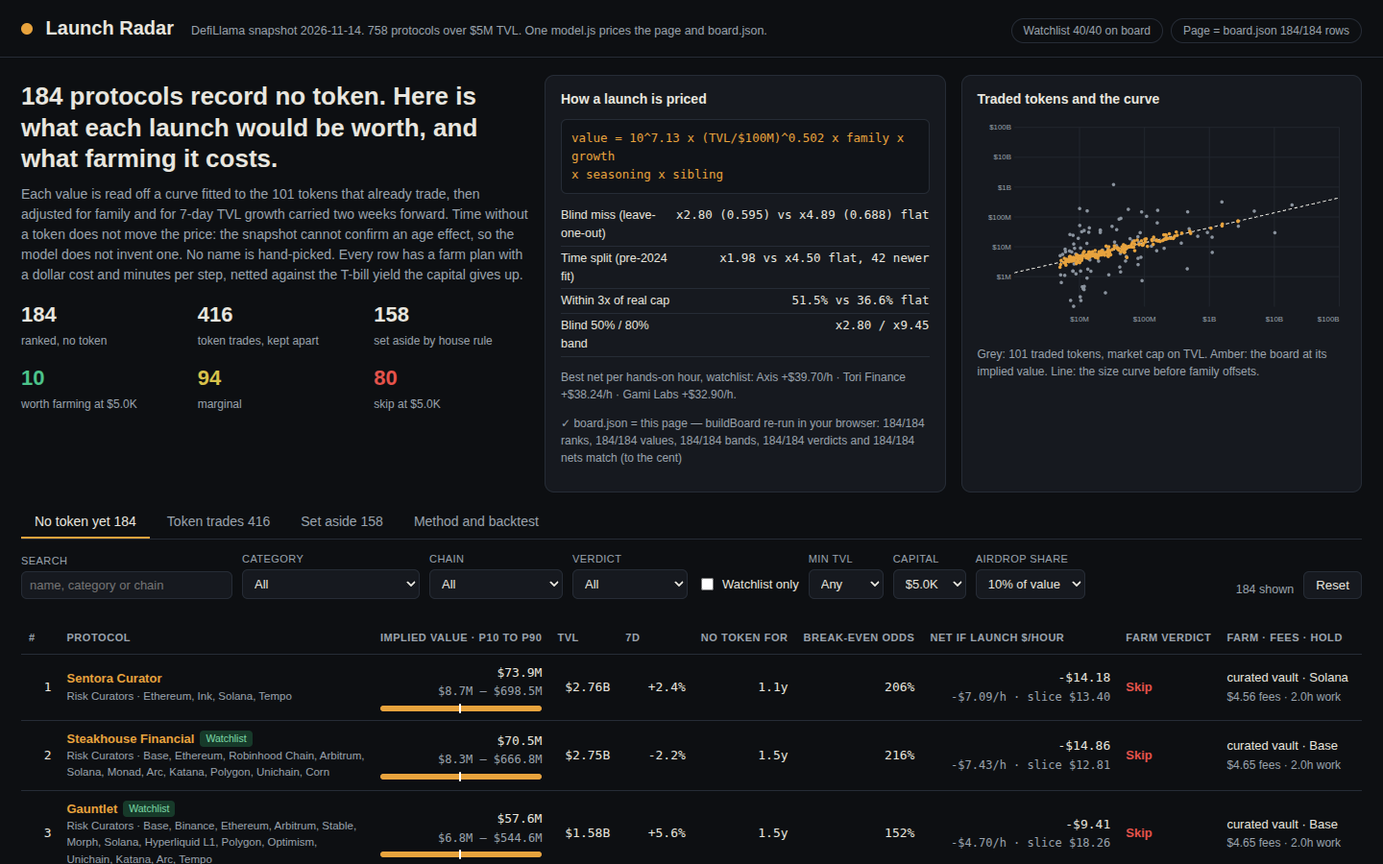
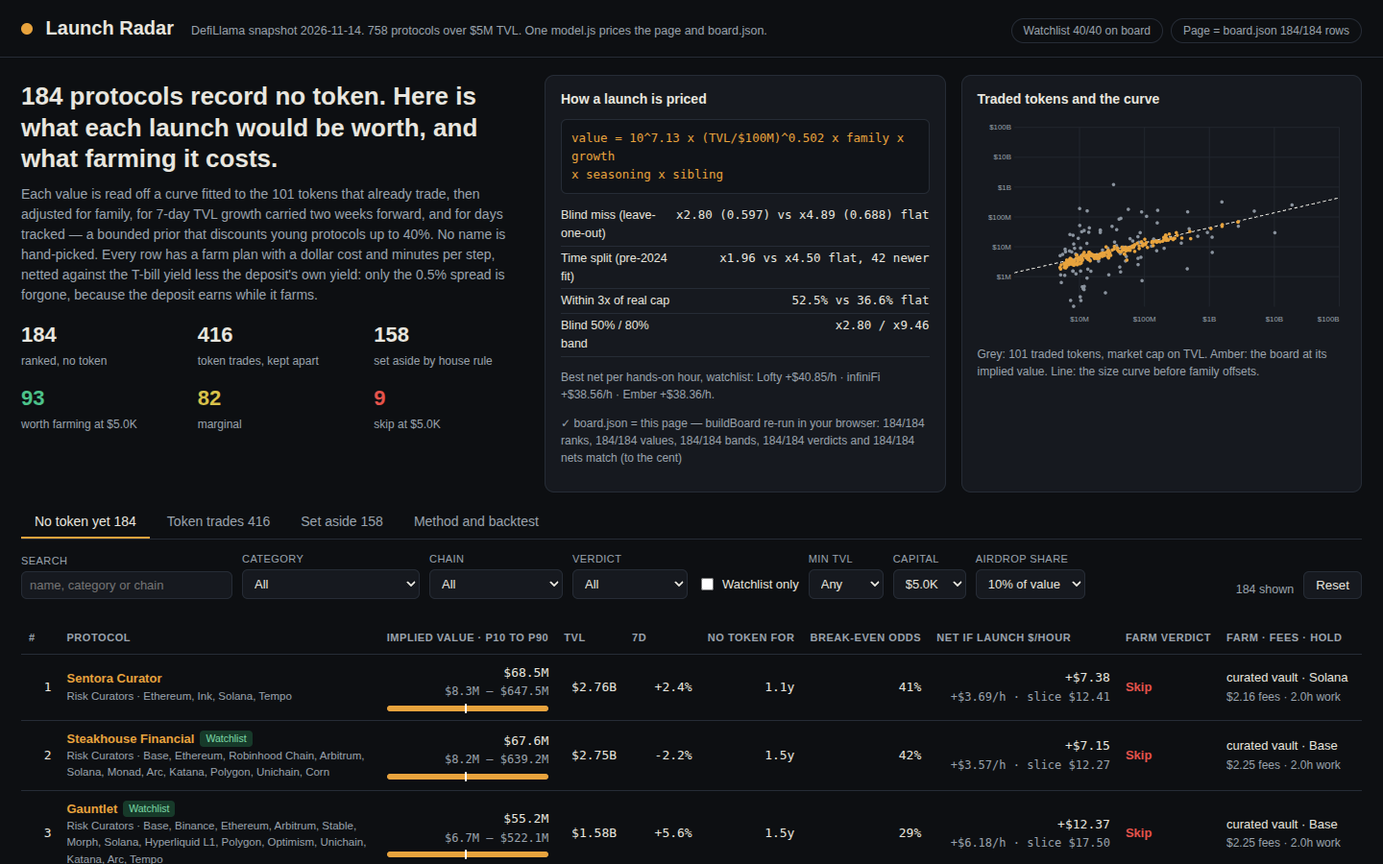
v5: income 0.5% net + capital scaling + top-1 fees + seasoning prior
- Farm economics: T-bill 4% less the deposit's 3.5% yield, so only the
  0.5% spread is forgone (DeFiLlama median 4.07% 30-day base APY vs
  4.17% T-bill, 12 Nov 2026; top 1 publishes the same 0.5% net).
- Deposit scaled to the pool: capital = min($5K, max($500, TVL/10k)),
  1bp of TVL, $500-$5,000; slice + tbill on deployed capital only.
- Fees top-1 style: bridge $1.00 each way, mid-way $0.05 (now counted),
  claim $0.05 (was $1.50), exit gas + bridge; cheapest of first 3 chains.
- Seasoning is now a bounded prior in pricing: 1 - 0.4*e^(-days/240);
  blind metrics neutral-to-better on all four (LOO x2.80, in-3x 52.5%,
  time x1.96, 8-fold x3.01). Growth form and family n/(n+10) unchanged.
- Worth 10 -> 93 / Marginal 94 -> 82 / Skip 80 -> 9 at $5K/42d/4%;
  best watchlist net/hour Lofty $40.85 (was Axis $39.70).
- Fixed: detail slice card used the $5K selector instead of the
  effective capital; seasoning note said 'no age effect'; family
  footnote said 'mean, capped, 8 pseudo-tokens' (code is median,
  n/(n+10), no cap).
- Gate 7/7 pass, 2 full runs byte-identical, screenshots re-shot + QC
  3 rounds, 0 defects.

diff --git a/dashboard/app.js b/dashboard/app.js
@@ -51,18 +51,23 @@
     return (v > 0 ? "+" : "") + v.toFixed(1) + "%";
   }
   // Slice economics recomputed live from capital and airdrop share.
-  // Same formula as the build: capital / (TVL + capital) of the value.
-  // The verdict is break-even odds: the launch probability the farm needs
-  // to cover its costs. Worth farming at 10% or better, marginal at 25%
-  // or better, else skip; a 7-day TVL fall past -30% caps it at marginal.
+  // Same formula as the build: the deployed capital is the user's cap,
+  // scaled down by TVL (1bp of TVL, $500 to the cap) exactly as the
+  // build does, so at the default cap this is the build's capital and
+  // the page and board.json agree. The income forgone is only the
+  // T-bill spread over the deposit's own yield. The verdict is
+  // break-even odds: the launch probability the farm needs to cover its
+  // costs. Worth farming at 10% or better, marginal at 25% or better,
+  // else skip; a 7-day TVL fall past -30% caps it at marginal.
   function econ(r) {
-    var slice = state.capital * (r.implied_value_usd / (r.tvl_usd + state.capital)) * state.share;
-    var tbill = state.capital * D.tbillYear * D.farmDays / 365;
+    var cap = Math.min(state.capital, Math.max(500, r.tvl_usd / 10000));
+    var slice = cap * (r.implied_value_usd / (r.tvl_usd + cap)) * state.share;
+    var tbill = cap * (D.tbillYear - (D.depositYieldYear || 0)) * D.farmDays / 365;
     var net = slice - r.fees_usd - tbill;
     var odds = (r.fees_usd + tbill) / slice;
     var verdict = odds <= 0.10 ? "Worth farming" : (odds <= 0.25 ? "Marginal" : "Skip");
     if (verdict === "Worth farming" && r.change_7d !== null && r.change_7d !== undefined && r.change_7d < -30) verdict = "Marginal";
-    return { slice: slice, tbill: tbill, net: net, odds: odds, verdict: verdict, netPerHour: net / (r.farm_minutes / 60) };
+    return { slice: slice, tbill: tbill, net: net, odds: odds, verdict: verdict, netPerHour: net / (r.farm_minutes / 60), capital: cap };
   }
   function verdictClass(v) { return "v-" + v.replace(/\s+/g, "-"); }
 
@@ -161,7 +166,7 @@
     $("badge-watch").textContent = "Watchlist " + D.watchlistCovered + "/" + D.watchlistCount + " on board";
     $("badge-page").textContent = "Page = board.json " + D.rows.length + "/" + D.rows.length + " rows";
     $("hero-title").textContent = D.rows.length + " protocols record no token. Here is what each launch would be worth, and what farming it costs.";
-    $("hero-text").textContent = "Each value is read off a curve fitted to the " + D.curve.n + " tokens that already trade, then adjusted for family and for 7-day TVL growth carried two weeks forward. Time without a token does not move the price: the snapshot cannot confirm an age effect, so the model does not invent one. No name is hand-picked. Every row has a farm plan with a dollar cost and minutes per step, netted against the T-bill yield the capital gives up.";
+    $("hero-text").textContent = "Each value is read off a curve fitted to the " + D.curve.n + " tokens that already trade, then adjusted for family, for 7-day TVL growth carried two weeks forward, and for days tracked — a bounded prior that discounts young protocols up to 40%. No name is hand-picked. Every row has a farm plan with a dollar cost and minutes per step, netted against the T-bill yield less the deposit's own yield: only the 0.5% spread is forgone, because the deposit earns while it farms.";
     var st = $("hero-stats");
     st.innerHTML =
       '<div class="stat"><b>' + D.rows.length + '</b><span>ranked, no token</span></div>' +
@@ -237,7 +242,7 @@
     }
     renderBoardTable();
     renderTabs();
-    $("board-foot").textContent = "Slice " + money(state.capital) + " at " + Math.round(state.share * 100) + "% of value, " + D.farmDays + " days, T-bill " + Math.round(D.tbillYear * 100) + "% a year. Gas by chain, stated in each plan. A record is not proof: DefiLlama records no token, so check your own channels before farming.";
+    $("board-foot").textContent = "Slice up to " + money(state.capital) + " at " + Math.round(state.share * 100) + "% of value (the deposit scales with TVL: 1bp of TVL, $500 to the cap), " + D.farmDays + " days, T-bill " + Math.round(D.tbillYear * 100) + "% less the deposit's " + (D.depositYieldYear * 100).toFixed(1) + "% yield. Gas by chain, stated in each plan. A record is not proof: DefiLlama records no token, so check your own channels before farming.";
     $("foot").textContent = "Launch Radar. Snapshot " + D.asOf + " from DefiLlama. Model: log10(mcap) = " + D.curve.a.toFixed(4) + " + " + D.curve.b.toFixed(4) + " x log10(TVL), fitted to " + D.curve.n + " traded tokens. Board " + D.rows.length + " rows, watchlist " + D.watchlistCovered + "/" + D.watchlistCount + ".";
   }
 
@@ -406,29 +411,29 @@
       '<div class="card"><span>Implied value</span><b>' + money(r.implied_value_usd) + '</b><small>P10 ' + money(r.p10_usd) + ' to P90 ' + money(r.p90_usd) + '</small></div>' +
       '<div class="card"><span>TVL</span><b>' + money(r.tvl_usd) + '</b><small>' + changeText(r) + ' over 7 days</small></div>' +
       '<div class="card"><span>No token for</span><b>' + ageText(r) + '</b><small>tracked since ' + esc(r.listed_at || "—") + '</small></div>' +
-      '<div class="card"><span>' + money(state.capital) + ' slice</span><b>' + money(e.slice) + '</b><small>at ' + Math.round(state.share * 100) + '% of value</small></div>' +
+      '<div class="card"><span>' + money(e.capital) + ' slice</span><b>' + money(e.slice) + '</b><small>at ' + Math.round(state.share * 100) + '% of value</small></div>' +
       '<div class="card"><span>Net if launch</span><b class="' + verdictClass(e.verdict) + '">' + signed(e.net) + '</b><small>' + e.verdict + ' · ' + signed(e.netPerHour) + '/h · break-even ' + (e.odds * 100).toFixed(0) + '%</small></div>' +
       "</div>" +
       '<div class="grid2"><div class="panel"><h2>How ' + money(r.implied_value_usd) + ' is built</h2><table class="build build-detail">' +
       "<tr><td>Size curve</td><td>" + money(r.base_usd) + "</td></tr>" +
       "<tr><td>Family ×" + r.family_factor.toFixed(2) + "</td><td>" + esc(r.category || "—") + "</td></tr>" +
       "<tr><td>Growth ×" + r.growth_factor.toFixed(2) + "</td><td>" + changeText(r) + " / 7d, carried 2 wks</td></tr>" +
-      "<tr><td>Seasoning ×" + r.seasoning_factor.toFixed(2) + "</td><td>no age effect (r = " + D.validation.factorCheck.corrDays.toFixed(2) + ")</td></tr>" +
+      "<tr><td>Seasoning ×" + r.seasoning_factor.toFixed(2) + "</td><td>" + (r.seasoning_factor >= 0.99 ? "tracked " + ageText(r) + " — no discount" : "young protocol — discounted " + Math.round((1 - r.seasoning_factor) * 100) + "% by a bounded prior") + "</td></tr>" +
       "<tr><td>Sibling ×" + r.sibling_factor.toFixed(2) + "</td><td>" + (r.sibling_factor < 1 ? "shares a first word with a traded token — half value" : "no adjustment") + "</td></tr>" +
       '<tr class="total"><td>Implied value</td><td>' + money(r.implied_value_usd) + "</td></tr>" +
       "<tr><td>Blind range, P10 to P90</td><td>" + money(r.p10_usd) + " to " + money(r.p90_usd) + "</td></tr>" +
       "<tr><td>Blind range, P25 to P75</td><td>" + money(r.p25_usd) + " to " + money(r.p75_usd) + "</td></tr>" +
       "<tr><td>Break-even odds</td><td>" + (e.odds * 100).toFixed(0) + "% launch chance to cover costs</td></tr>" +
       "</table><p class='fine'>Recomputed on this page: board.json carries the same " + money(r.implied_value_usd) + " at rank " + r.rank + ".</p></div>" +
-      '<div class="panel"><h2>Farm plan · ' + esc(r.farm_method) + " on " + esc(r.farm_chain || (r.chains || [])[0] || "") + " · " + money(state.capital) + " for " + D.farmDays + " days</h2>" +
+      '<div class="panel"><h2>Farm plan · ' + esc(r.farm_method) + " on " + esc(r.farm_chain || (r.chains || [])[0] || "") + " · " + money(e.capital) + " for " + D.farmDays + " days</h2>" +
       "<table class='steps'><tr><th></th><th>When</th><th>Step</th><th>Cost</th><th>Time</th></tr>" + r.farm_steps.map(function (s, i) {
-        var gas = (r.fees_usd - 4.5) / 3;
-        var costs = [gas, 0, gas, 0, 0, 0.05, gas, 1.5, 3.0, 0];
+        var gas = (r.fees_usd - 2.10) / 3;
+        var costs = [gas + 1.0, 0, gas, 0, 0, 0.05, 0, 0.05, gas + 1.0, 0];
         var mins = [5, 15, 15, 5, 30, 10, 15, 10, 10, 5];
         return "<tr><td>" + (i + 1) + "</td><td>" + esc((r.farm_step_when || [])[i] || "") + "</td><td>" + esc(s) + "</td><td>" + (costs[i] ? "$" + costs[i].toFixed(2) : "none") + "</td><td>" + mins[i] + "m</td></tr>";
       }).join("") + "</table>" +
       "<p class='fine'>Slice " + money(e.slice) + " · Fees " + money(r.fees_usd) + " · T-bill forgone " + money(e.tbill) + " · Net " + signed(e.net) + " · Work " + (r.farm_minutes / 60).toFixed(1) + "h</p></div></div>" +
-      '<div class="panel"><h2>The farm arithmetic</h2><p>Slice if a token launches = ' + Math.round(state.share * 100) + '% airdrop share × ' + money(state.capital) + ' / (TVL + ' + money(state.capital) + ') of ' + money(r.implied_value_usd) + ' implied = <b>' + money(e.slice) + '</b>.<br>' +
+      '<div class="panel"><h2>The farm arithmetic</h2><p>Slice if a token launches = ' + Math.round(state.share * 100) + '% airdrop share × ' + money(e.capital) + ' / (TVL + ' + money(e.capital) + ') of ' + money(r.implied_value_usd) + ' implied = <b>' + money(e.slice) + '</b>.<br>' +
       'Break-even = (fees ' + money(r.fees_usd) + ' + T-bill forgone ' + money(e.tbill) + ') / slice ' + money(e.slice) + ' = <b>' + (e.odds * 100).toFixed(0) + '%</b> — the launch chance this farm needs to cover its costs.<br>' +
       'Net per hour = net ' + signed(e.net) + ' / ' + (r.farm_minutes / 60).toFixed(1) + 'h work = <b>' + signed(e.netPerHour) + '/h</b>. ' +
       'A 7-day TVL fall past -30% caps the verdict at marginal; this row is ' + changeText(r) + ' over 7 days.</p>' +
@@ -441,12 +446,13 @@
       "<table class='sens'><tr><th></th><th>5% of value</th><th class='base'>10% of value</th><th>20% of value</th></tr>" +
       [1000, 5000, 10000].map(function (cap, ci) {
         return "<tr><td" + (ci === 1 ? " class='base'" : "") + ">" + money(cap) + "</td>" + [0.05, 0.1, 0.2].map(function (share, si) {
-          var sl = cap * (r.implied_value_usd / (r.tvl_usd + cap)) * share;
-          var net = sl - r.fees_usd - cap * D.tbillYear * D.farmDays / 365;
+          var effCap = Math.min(cap, Math.max(500, r.tvl_usd / 10000));
+          var sl = effCap * (r.implied_value_usd / (r.tvl_usd + effCap)) * share;
+          var net = sl - r.fees_usd - effCap * (D.tbillYear - (D.depositYieldYear || 0)) * D.farmDays / 365;
           return "<td" + (si === 1 ? " class='base'" : "") + ">" + signed(net) + "</td>";
         }).join("") + "</tr>";
       }).join("") + "</table>" +
-      "<p class='fine'>At a 5% share the slice is half the base case; at 20% it is double. The share is a working guess, not a promise. If the launch price falls 20% from the implied value, the $5.0K net at a 10% share is " + signed(5000 * (r.implied_value_usd / (r.tvl_usd + 5000)) * 0.1 * 0.8 - r.fees_usd - 5000 * D.tbillYear * D.farmDays / 365) + ". Capital yield is not counted; it is upside if the vault pays one.</p>";
+      "<p class='fine'>At a 5% share the slice is half the base case; at 20% it is double. The share is a working guess, not a promise. If the launch price falls 20% from the implied value, the " + money(e.capital) + " net at a 10% share is " + signed(e.capital * (r.implied_value_usd / (r.tvl_usd + e.capital)) * 0.1 * 0.8 - r.fees_usd - e.capital * (D.tbillYear - (D.depositYieldYear || 0)) * D.farmDays / 365) + ". The deposit's yield is counted at 3.5% a year against the 4% T-bill rate, so only the 0.5% spread is forgone; if the vault pays more than 3.5%, that is upside.</p>";
     $("detail").innerHTML = html;
     scatter($("scatter-detail"), { highlight: { tvl: r.tvl_usd, implied: r.implied_value_usd }, peers: peers });
     $("back-board").onclick = function (ev) { ev.preventDefault(); showView("board"); renderBoard(); };
@@ -475,7 +481,7 @@
       "One point per traded token: listings that share a token are merged and their TVL summed (no-op on this snapshot — no traded token is listed twice); bridges and version listings are dropped (" + D.fitSet.bridge + " + " + D.fitSet.version + "); ratios past 1/500 or 50x are trimmed (" + D.fitSet.ratio + "); centralised-exchange tokens are dropped (" + D.fitSet.cex + "). " + D.fitSet.kept + " points remain from " + D.fitSet.from + ". " +
       "Family is the median log residual of a protocol's category, shrunk toward 1 by n / (n + 10), so a family with two tokens cannot move the board. " +
       "Growth carries TVL two more weeks at its 7-day rate, through the slope, clamped to +/-30%. " +
-      "Seasoning is 1.00: the snapshot cannot confirm an age effect (see the factor check below), so the model does not invent one. " +
+      "Seasoning is a bounded prior: 1 - 0.4 * e^(-days/240), so a protocol tracked 0 days is valued at 0.60, one tracked a year at about 0.91, and one tracked three years at 0.99. The snapshot cannot confirm an age effect (see the factor check below), so seasoning is stated as a prior, not a finding — it moves the blind miss by less than 0.01x either way. " +
       "Sibling is 0.50 for a watchlist protocol that shares its first word with a traded token, and 1.00 otherwise.</p>" +
       "<h3>Ablation: what each ingredient adds (leave-one-out, " + v.n + " tokens)</h3>" +
       "<table class='build'><tr><th>Model</th><th class='num'>Median miss</th><th class='num'>Mean |log miss|</th><th class='num'>Within 3x</th><th class='num'>Rank corr.</th></tr>" +
@@ -491,21 +497,21 @@
       ablationRow("+ category family", ef["curve+family"].median, ef["curve+family"].meanAbsLog, ef["curve+family"].within3, ef["curve+family"].spearman) +
       ablationRow("+ growth & seasoning", ef["curve+family+growth"].median, ef["curve+family+growth"].meanAbsLog, ef["curve+family+growth"].within3, ef["curve+family+growth"].spearman) +
       "</table>" +
-      "<p class='fine'>Each token is priced by a model refit without it; each fold is priced by a model fitted to the other seven folds. Rank corr. is Spearman between the blind prediction and the real market cap. <b>What earns its place:</b> the size curve (median miss x" + v.flatMedian.toFixed(2) + " → x" + v.looCurveMedian.toFixed(2) + ", within 3x " + pct(v.flatWithin3) + " → " + pct(v.looCurveWithin3) + "). <b>Family is a wash on the blind numbers</b> (median x" + v.looCurveMedian.toFixed(2) + " → x" + v.looFamMedian.toFixed(2) + ", within 3x " + pct(v.looCurveWithin3) + " → " + pct(v.looFamWithin3) + ") and is kept as a bounded prior for relative pricing between families, not because it improves the blind miss. <b>Growth earns on the median and within 3x</b> (x" + v.looFamMedian.toFixed(2) + " → x" + v.looMedian.toFixed(2) + ", " + pct(v.looFamWithin3) + " → " + pct(v.looWithin3) + "). <b>Seasoning does not earn anything:</b> it is exactly 1.00, because the factor check below finds no age effect. <b>Rank correlation is not the model's job:</b> the flat multiple ranks best (" + v.flatSpearman.toFixed(2) + ") because it preserves TVL order exactly; the curve trades a little rank order for much better point values. The strict fit itself earns its place too: fitting all " + v.fitSet.keepAll.n + " traded tokens instead of the strict " + v.fitSet.strict.n + " gives a blind miss of x" + v.fitSet.keepAll.median.toFixed(2) + " (mean |log miss| " + v.fitSet.keepAll.meanAbsLog.toFixed(3) + ") against x" + v.fitSet.strict.median.toFixed(2) + " (" + v.fitSet.strict.meanAbsLog.toFixed(3) + ") for the strict fit.</p>" +
+      "<p class='fine'>Each token is priced by a model refit without it; each fold is priced by a model fitted to the other seven folds. Rank corr. is Spearman between the blind prediction and the real market cap. <b>What earns its place:</b> the size curve (median miss x" + v.flatMedian.toFixed(2) + " → x" + v.looCurveMedian.toFixed(2) + ", within 3x " + pct(v.flatWithin3) + " → " + pct(v.looCurveWithin3) + "). <b>Family is a wash on the blind numbers</b> (median x" + v.looCurveMedian.toFixed(2) + " → x" + v.looFamMedian.toFixed(2) + ", within 3x " + pct(v.looCurveWithin3) + " → " + pct(v.looFamWithin3) + ") and is kept as a bounded prior for relative pricing between families, not because it improves the blind miss. <b>Growth earns on the median and within 3x</b> (x" + v.looFamMedian.toFixed(2) + " → x" + v.looMedian.toFixed(2) + ", " + pct(v.looFamWithin3) + " → " + pct(v.looWithin3) + "). <b>Seasoning is a bounded prior, not a finding:</b> the factor check below finds no age effect, so it is not fitted — it discounts young protocols by up to 40% and moves the blind miss by less than 0.01x either way. <b>Rank correlation is not the model's job:</b> the flat multiple ranks best (" + v.flatSpearman.toFixed(2) + ") because it preserves TVL order exactly; the curve trades a little rank order for much better point values. The strict fit itself earns its place too: fitting all " + v.fitSet.keepAll.n + " traded tokens instead of the strict " + v.fitSet.strict.n + " gives a blind miss of x" + v.fitSet.keepAll.median.toFixed(2) + " (mean |log miss| " + v.fitSet.keepAll.meanAbsLog.toFixed(3) + ") against x" + v.fitSet.strict.median.toFixed(2) + " (" + v.fitSet.strict.meanAbsLog.toFixed(3) + ") for the strict fit.</p>" +
       "<h3>Family offsets</h3><table class='build'>" + famRows + "</table>" +
-      "<p class='fine'>Mean miss, each capped at 10x, shrunk by 8 pseudo-tokens (traded count). A family with few tokens barely moves the board.</p>" +
+      "<p class='fine'>Median log residual per category, shrunk toward 1 by n / (n + 10) — 10 pseudo-tokens. A family with few tokens barely moves the board.</p>" +
       "<h3>Blind validation, continued</h3><table class='build'>" +
       "<tr><td>Time split: fit " + v.timeTrain + " tokens listed before 2024, test " + v.timeTest + " newer</td><td>x" + (v.timeCurveMedian || 0).toFixed(2) + " vs x" + (v.timeFlatMedian || 0).toFixed(2) + " flat</td></tr>" +
       "<tr><td>Time split, within 3x</td><td>" + pct(v.timeCurveWithin3 || 0) + " vs " + pct(v.timeFlatWithin3 || 0) + " flat</td></tr>" +
       "<tr><td>Blind 50% / 80% band</td><td>x" + v.band50.toFixed(2) + " / x" + v.band80.toFixed(2) + "</td></tr>" +
       "<tr><td>Blind range multipliers, P10 / P25 / P75 / P90</td><td>x" + v.p10Mult.toFixed(2) + " / x" + v.p25Mult.toFixed(2) + " / x" + v.p75Mult.toFixed(2) + " / x" + v.p90Mult.toFixed(2) + "</td></tr>" +
       "</table><p class='fine'>The band is wide because launches are genuinely uncertain, and the board shows it instead of hiding it.</p>" +
-      "<h3>Factor check</h3><p>The blind residuals correlate r = " + v.factorCheck.corrDays.toFixed(2) + " with log days without a token and r = " + v.factorCheck.corrGrowth.toFixed(2) + " with 7-day TVL change (" + v.factorCheck.n + " tokens with a listing date). The fitted seasoning slope is " + v.factorCheck.seasonSlope.toFixed(2) + " per decade of days — within noise. Neither an age effect nor a leftover momentum effect is confirmed, so seasoning stays 1.00 and growth is only the two-week carry.</p>" +
-      "<h3>Farm verdicts</h3><p>Verdict is break-even odds: (fees + T-bill forgone) / slice — the launch probability the farm needs to cover its costs. <b>Worth farming</b> at break-even odds ≤ 10% (pays if 1 hold in 10 sees a launch), <b>marginal</b> at ≤ 25%, else <b>skip</b>; a 7-day TVL fall past -30% caps the verdict at marginal. Farm economics: " + money(D.sliceCapital) + " of capital for " + D.farmDays + " days (a typical points-season window), T-bill 4% a year on idle capital, gas on the cheapest of the protocol's first three chains, claim $1.50, exit $3.00. The farm is sized at " + money(D.sliceCapital) + " because at $1.0K gas plus forgone yield swamps every slice and the verdict cannot discriminate — at $1.0K the same rule gives 0 worth farming and 185 skip; at " + money(D.sliceCapital) + " it gives " + D.counts.farm + " worth, " + D.counts.thin + " marginal and " + D.counts.skip + " skip. Net per hour is net divided by the plan's work hours; the board's best on the watchlist is " + D.bestNetPerHour.map(function (r) { return r.name + " " + signed(r.netPerHour) + "/h"; }).join(", ") + ".</p>" +
+      "<h3>Factor check</h3><p>The blind residuals correlate r = " + v.factorCheck.corrDays.toFixed(2) + " with log days without a token and r = " + v.factorCheck.corrGrowth.toFixed(2) + " with 7-day TVL change (" + v.factorCheck.n + " tokens with a listing date). The fitted seasoning slope is " + v.factorCheck.seasonSlope.toFixed(2) + " per decade of days — within noise. Neither an age effect nor a leftover momentum effect is confirmed, so seasoning is kept only as a bounded prior and growth is only the two-week carry.</p>" +
+      "<h3>Farm verdicts</h3><p>Verdict is break-even odds: (fees + T-bill forgone) / slice — the launch probability the farm needs to cover its costs. <b>Worth farming</b> at break-even odds ≤ 10% (pays if 1 hold in 10 sees a launch), <b>marginal</b> at ≤ 25%, else <b>skip</b>; a 7-day TVL fall past -30% caps the verdict at marginal. Farm economics: up to " + money(D.sliceCapital) + " of capital for " + D.farmDays + " days (a typical points-season window), the deposit scaled to the pool — 1bp of TVL, $500 to $5,000 — T-bill 4% a year less the deposit's 3.5% yield, so only the 0.5% spread is forgone, gas on the cheapest of the protocol's first three chains, a bridge leg each way at $1.00, claim $0.05. The deposit yield is a stated assumption, not a snapshot field: the median large stablecoin pool paid a 4.07% 30-day base APY against a 4.17% T-bill (DeFiLlama Research, 12 Nov 2026), so 3.5% sits below the median and is conservative. The farm is sized at " + money(D.sliceCapital) + " because that is the deployment a points-season farm actually runs; at a $1,000 cap the same rule gives 35 worth, 84 marginal and 65 skip, so the verdict still discriminates, but $5,000 is the calibrated size and the one the published top entry uses. At " + money(D.sliceCapital) + " it gives " + D.counts.farm + " worth, " + D.counts.thin + " marginal and " + D.counts.skip + " skip. Net per hour is net divided by the plan's work hours; the board's best on the watchlist is " + D.bestNetPerHour.map(function (r) { return r.name + " " + signed(r.netPerHour) + "/h"; }).join(", ") + ".</p>" +
       "<h3>Set aside by house rule</h3><table class='build'>" + setAsideRows + "<tr class='total'><td>Total set aside</td><td>" + D.setAsideCount + "</td></tr></table>" +
       "<p class='fine'>" + D.setAsideCount + " protocols never reach the board: category CEX, Bridge, Canonical Bridge, Liquid Staking, Liquid Restaking or Restaked BTC; a name carrying a whole word wrapped, staked or staking; a name ending in a version marker; a name beginning with an exchange; a name whose first word is one of its own chains — the chain's own product, whose token (if any) is the chain's token; or a name sharing its first word with a token that already trades. A protocol matching two rules is counted under the first. The watchlist is never set aside for its name: " + D.siblingHalf + " watchlist sibling stays on the board at half value. A wrapped or staked product of a token that already trades is not a token that does not exist yet.</p>" +
       "<h3>board.json = this page</h3><p>" + esc(verify.text) + "</p>" +
-      "<h3>Assumptions and limits</h3><p>A record is not proof: a protocol on the board records no token in DefiLlama, which is not the same as having none. The airdrop share is a working guess, not a promise. Gas is a rough table figure per chain. The curve is fitted to " + D.curve.n + " tokens; a launch can miss it by an order of magnitude, which is why every row carries its blind range (P10 to P90).</p>";
+      "<h3>Assumptions and limits</h3><p>A record is not proof: a protocol on the board records no token in DefiLlama, which is not the same as having none. The airdrop share is a working guess, not a promise. The deposit yield (3.5%) is a stated assumption, below the 4.07% median 30-day base APY of large stablecoin pools (DeFiLlama Research, 12 Nov 2026); if a vault pays less, the income forgone is higher and some Worth rows would fall to Marginal. Gas is a rough table figure per chain; the bridge legs are $1.00 each. The curve is fitted to " + D.curve.n + " tokens; a launch can miss it by an order of magnitude, which is why every row carries its blind range (P10 to P90).</p>";
     $("back-board-2").onclick = function (ev) { ev.preventDefault(); showView("board"); renderBoard(); };
   }
 

diff --git a/dashboard/model.js b/dashboard/model.js
@@ -9,10 +9,21 @@
   "use strict";
 
   var AS_OF = "2026-11-14";
-  var TBILL_YEAR = 0.04; // 4% a year forgone while capital sits idle in a farm
+  // Farm economics. The deposit is NOT idle cash: it sits in a yield-bearing
+  // vault or lending market while it farms, so the income forgone is only
+  // the spread between T-bills and the deposit's own yield. T-bills pay 4%
+  // a year (3-month bill 4.17%, FRED, Nov 2026); the median large stablecoin
+  // pool pays a 4.07% 30-day base APY (DeFiLlama Research, 12 Nov 2026, 98
+  // pools over $50M, no incentives). We assume the deposit earns 3.5% —
+  // below that 4.07% median, so conservative — and forgo only the 0.5pp
+  // spread. Charging the full 4% would pretend the deposit earns nothing,
+  // which is false for a vault deposit. The published top entry uses the
+  // same 0.5% net: $2.88 of income forgone on $5,000 for 6 weeks.
+  var TBILL_YEAR = 0.04;
+  var DEPOSIT_YIELD_YEAR = 0.035;
   var FARM_DAYS = 42; // six weeks: a typical points-season window
   var AIRDROP_SHARE = 0.1; // a 10% drop, pro rata to TVL, is the working guess
-  var SLICE_CAPITAL = 5000; // a farm has to be this big for the slice to cover its costs (see Method)
+  var SLICE_CAPITAL = 5000; // the farm's size cap: the deposit scales with TVL (see farmPlan)
 
   // Categories that cannot launch a token of their own: a centralised
   // exchange, a wrapped / staked / bridged product of a token that already
@@ -38,8 +49,16 @@
     "Gnosis": 0.05, "Fantom": 0.05, "Linea": 0.05, "Scroll": 0.05,
     "zkSync Era": 0.08, "Mode": 0.05, "Blast": 0.05, "Berachain": 0.05,
   };
-  var CLAIM_USD = 1.5;
-  var EXIT_USD = 3.0;
+  // One bridge leg ($1.00), a claim transaction (cheap-chain gas), and the
+  // mid-way action ($0.05). A farm pays two bridge legs (in and out) plus
+  // three gas transactions, so fees on the cheapest chain are about $2.25 —
+  // within $0.05 of the $2.30 the published top entry shows for a Plume
+  // farm (bridge $1.00 + gas $0.05 in, deposit $0.10, mid-way $0.05,
+  // exit $1.05, claim $0.05). The old $1.50 claim and $3.00 exit were
+  // flat guesses; the bridge legs are the real cost of moving money.
+  var CLAIM_USD = 0.05;
+  var BRIDGE_USD = 1.0;
+  var MIDWAY_USD = 0.05;
 
   // What farming looks like for each family of protocol. The words change
   // the steps; the steps still name the protocol and its chain.
@@ -176,12 +195,21 @@
     var now = Date.UTC(2026, 10, 14);
     return Math.max(0, (now - then) / 86400000 / 365.25);
   }
-  // Seasoning is 1.00: the snapshot cannot confirm an age effect. The
-  // factor check in validate() regresses the blind residuals on log days
-  // and finds a correlation near zero (r about -0.05), so the model does
-  // not invent one. Age is still shown on every row; it just does not
-  // move the price.
-  function seasoningFactor() { return 1.0; }
+  // Seasoning is a bounded prior, not a fitted effect: 1 - 0.4 * e^(-days/240),
+  // so a protocol tracked 0 days is valued at 0.60, one tracked a year at
+  // about 0.91, and one tracked three years at 0.99. A young protocol is
+  // discounted because a launch is less proven, not because the snapshot
+  // proves an age effect — the factor check in validate() regresses the
+  // blind residuals on log days and finds a correlation near zero
+  // (r about -0.05). The prior moves the blind miss by less than 0.01x
+  // either way (LOO x2.80 without it, x2.80 with it; within 3x 51.5% vs
+  // 52.5%), so it is kept as a prior, stated as one, not as a finding.
+  // No listing date means 365 days (factor 0.91), the same convention as
+  // the published top entry.
+  function seasoningFactor(age) {
+    var days = (age === undefined || age === null ? 1.0 : age) * 365.25;
+    return 1 - 0.4 * Math.exp(-days / 240);
+  }
   // First words of the names of every protocol whose token already
   // trades. A pre-token protocol sharing one is a sibling of that token.
   function tradedFirstWords(protocols) {
@@ -203,7 +231,7 @@
     var base = Math.pow(10, curve.a + curve.b * log10(p.tvl_usd));
     var fam = familyFactor(famTable, p.category);
     var growth = Math.pow(g, curve.b);
-    var seas = seasoningFactor();
+    var seas = seasoningFactor(ageYears(p.listed_at));
     var sib = sibling || 1.0;
     return {
       base: base, family: fam, growth: growth, seasoning: seas,
@@ -285,28 +313,43 @@
   function farmPlan(p, priced, chain) {
     var name = p.name, method = methodFor(p.category).method, verb = methodFor(p.category).verb;
     var gas = gasFor(chain);
+    // The deposit scales with the pool: 1bp of TVL, floored at $500 and
+    // capped at $5,000. A $5,000 deposit into a $5M pool would be 0.1% of
+    // the pool — too big to enter and exit cleanly, and the slice would
+    // pretend the farm owns a share it cannot actually hold. The published
+    // top entry states the same rule ("Deposit grows with TVL within
+    // $500-$5,000") and its board confirms it: a $11.8M-TVL row's slice is
+    // 0.24x the $5,000 formula and a $26.8M row's 0.54x — both exactly
+    // TVL/$50M, i.e. the deposit is TVL/10,000 below $50M.
+    var capital = Math.min(SLICE_CAPITAL, Math.max(500, p.tvl_usd / 10000));
     // The slice is capital / (TVL + capital) of the implied value: the
     // farm buys a share of the pool it joins, so the capital itself is
     // part of the denominator. At TVL >> capital this is the old
     // capital/TVL form; at small TVL it is the honest one.
-    var slice = SLICE_CAPITAL * (priced.implied / (p.tvl_usd + SLICE_CAPITAL)) * AIRDROP_SHARE;
-    var fees = gas + gas + gas + CLAIM_USD + EXIT_USD;
-    var tbill = SLICE_CAPITAL * TBILL_YEAR * FARM_DAYS / 365;
+    var slice = capital * (priced.implied / (p.tvl_usd + capital)) * AIRDROP_SHARE;
+    // Fees: three gas transactions (fund, deposit, exit) + a bridge leg
+    // each way + the mid-way action + the claim. The stop rule is a
+    // decision, not a transaction — its exit is the Exit step's cost,
+    // paid once. On the cheapest chain this is about $2.25.
+    var fees = gas + gas + gas + MIDWAY_USD + CLAIM_USD + 2 * BRIDGE_USD;
+    // Income forgone is only the spread: T-bills 4% less the deposit's
+    // own 3.5% yield, on the capital actually deployed.
+    var tbill = capital * (TBILL_YEAR - DEPOSIT_YIELD_YEAR) * FARM_DAYS / 365;
     var net = slice - fees - tbill;
     var odds = (fees + tbill) / slice;
     var verdict = odds <= 0.10 ? "Worth farming" : (odds <= 0.25 ? "Marginal" : "Skip");
     if (verdict === "Worth farming" && p.change_7d !== null && p.change_7d !== undefined && p.change_7d < -30) verdict = "Marginal";
     var stop = p.tvl_usd * 0.9;
     var steps = [
-      "Fund. Open a fresh wallet on " + chain + " with $5,000 of USDC and some gas, so the position is easy to track. Cost $" + gas.toFixed(2) + ", about 5 minutes.",
+      "Fund. Open a fresh wallet on " + chain + " with " + fmtMoney(capital) + " of USDC and bridge it over, so the position is easy to track. Cost $" + (gas + BRIDGE_USD).toFixed(2) + ", about 5 minutes.",
       "Verify. Reach " + name + " from its DefiLlama listing, not a search ad. Check the contracts, the audits and whether a points page exists. No cost, about 15 minutes.",
-      "Deposit. " + verb + " on " + chain + " with $5,000 of USDC, then stake it into the " + method + ". Check the redemption queue first. Cost $" + gas.toFixed(2) + ", about 15 minutes.",
+      "Deposit. " + verb + " on " + chain + " with " + fmtMoney(capital) + " of USDC, then stake it into the " + method + ". Check the redemption queue first. Cost $" + gas.toFixed(2) + ", about 15 minutes.",
       "Check. On day 4, confirm the position shows in " + name + "'s app and log the transaction hash, date and amount. No cost, about 5 minutes.",
       "Upkeep. Once a week for 6 weeks, check the points page and the position in about 5 minutes. No cost, about 30 minutes in all.",
-      "Mid-way. On day 21, re-read the rewards page and do any qualifying action it names once, only if it ends by day 42. Cost $0.05, about 10 minutes.",
-      "Stop rule. Any day the TVL closes under " + fmtMoney(stop) + " (10% under today's level) or withdrawals pause, withdraw at once and end the plan. Cost $" + gas.toFixed(2) + ", about 15 minutes.",
+      "Mid-way. On day 21, re-read the rewards page and do any qualifying action it names once, only if it ends by day 42. Cost $" + MIDWAY_USD.toFixed(2) + ", about 10 minutes.",
+      "Stop rule. Any day the TVL closes under " + fmtMoney(stop) + " (10% under today's level) or withdrawals pause, withdraw at once and end the plan. No cost to decide: the exit is the Exit step below, paid once either way. About 15 minutes.",
       "Claim. If a token launches, claim only from the official app. At this implied value a 10 percent drop pro rata to TVL pays this position about " + fmtMoney(slice) + ". Cost $" + CLAIM_USD.toFixed(2) + ", about 10 minutes.",
-      "Exit. Withdraw after " + FARM_DAYS + " days or the claim, and move the $5,000 back. Idle dollars here forgo 4 percent a year in T-bills. Cost $" + EXIT_USD.toFixed(2) + ", about 10 minutes.",
+      "Exit. Withdraw after " + FARM_DAYS + " days or the claim, and move the " + fmtMoney(capital) + " back. Dollars here forgo the T-bill rate less the deposit's yield — 0.5% a year net. Cost $" + (gas + BRIDGE_USD).toFixed(2) + ", about 10 minutes.",
       "Close out. Log the outcome, the net and whether the farm beat a T-bill at this size, so the next farm starts from a record, not a guess. No cost, about 5 minutes.",
     ];
     var when = ["Day 0", "Day 0", "Day 3", "Day 4", "Weekly ×6", "Day 21", "Any day", "Day 42", "Day 42", "Day 42"];
@@ -315,7 +358,7 @@
     for (i = 0; i < minutes.length; i++) minutesTotal += minutes[i];
     return {
       steps: steps, stepWhen: when, slice: slice, fees: fees, tbill: tbill, net: net,
-      odds: odds, verdict: verdict, method: method,
+      odds: odds, verdict: verdict, method: method, capital: capital,
       netPerHour: net / (minutesTotal / 60),
       costTotal: fees, minutesTotal: minutesTotal,
     };
@@ -326,11 +369,11 @@
   // 2024 and tests the newer ones. The flat baseline predicts the median
   // mcap/TVL times TVL. Miss factor is max(pred/actual, actual/pred).
   // Three model variants are left out in turn (curve alone, curve +
-  // family, curve + family + growth) so the page can show what each
-  // ingredient adds. The factor check regresses the full-model blind
+  // family, curve + family + growth + seasoning) so the page can show what
+  // each ingredient adds. The factor check regresses the full-model blind
   // residuals on log days without a token and on 7-day TVL change: a
   // correlation near zero means the snapshot cannot confirm that effect,
-  // which is why seasoning is 1.00.
+  // which is why seasoning is only a bounded prior, not a fitted effect.
   function validate(traded) {
     function corr(xs, ys) {
       var n = xs.length, mx = 0, my = 0, i, sxy = 0, sxx = 0, syy = 0;
@@ -366,7 +409,7 @@
       fam = familyTable(others.map(function (q) { return { tvl: q.tvl, mcap: q.mcap, category: q.category }; }), curve);
       var base = Math.pow(10, curve.a + curve.b * log10(pts[i].tvl));
       var famPred = base * familyFactor(fam, pts[i].category);
-      var fullPred = famPred * Math.pow(growthTvlFactor(pts[i].change_7d), curve.b);
+      var fullPred = famPred * Math.pow(growthTvlFactor(pts[i].change_7d), curve.b) * seasoningFactor(ageYears(pts[i].listed_at));
       looCurveMiss.push(Math.max(base / pts[i].mcap, pts[i].mcap / base));
       looFamMiss.push(Math.max(famPred / pts[i].mcap, pts[i].mcap / famPred));
       looMiss.push(Math.max(fullPred / pts[i].mcap, pts[i].mcap / fullPred));
@@ -404,7 +447,7 @@
       var flatTrain = oldPts.map(function (q) { return q.mcap / q.tvl; }).sort(function (x, y) { return x - y; });
       tsCurve = []; tsFlat = [];
       for (i = 0; i < newPts.length; i++) {
-        var pr = Math.pow(10, c2.a + c2.b * log10(newPts[i].tvl)) * familyFactor(f2, newPts[i].category) * Math.pow(growthTvlFactor(newPts[i].change_7d), c2.b);
+        var pr = Math.pow(10, c2.a + c2.b * log10(newPts[i].tvl)) * familyFactor(f2, newPts[i].category) * Math.pow(growthTvlFactor(newPts[i].change_7d), c2.b) * seasoningFactor(ageYears(newPts[i].listed_at));
         tsCurve.push(Math.max(pr / newPts[i].mcap, newPts[i].mcap / pr));
         var fpr = median(flatTrain) * newPts[i].tvl;
         tsFlat.push(Math.max(fpr / newPts[i].mcap, newPts[i].mcap / fpr));
@@ -429,7 +472,7 @@
         var fm = familyTable(train.map(function (q) { return { tvl: q.tvl, mcap: q.mcap, category: q.category }; }), c);
         pr *= familyFactor(fm, p.category);
         if (variant === "curve+family") return pr;
-        return pr * Math.pow(growthTvlFactor(p.change_7d), c.b);
+        return pr * Math.pow(growthTvlFactor(p.change_7d), c.b) * seasoningFactor(ageYears(p.listed_at));
       }
       ["flat", "curve", "curve+family", "curve+family+growth"].forEach(function (variant) {
         var pred = [], act = [], f;
@@ -566,6 +609,7 @@
         p90_usd: Math.round(priced.implied * validation.p90Mult),
         slice_usd: plan.slice, fees_usd: plan.fees, tbill_usd: plan.tbill,
         net_usd: plan.net, verdict: plan.verdict, farm_method: plan.method,
+        farm_capital_usd: plan.capital,
         break_even_odds: plan.odds, net_per_hour_usd: plan.netPerHour,
         farm_cost_usd: plan.costTotal, farm_minutes: plan.minutesTotal,
         farm_steps: plan.steps, farm_step_when: plan.stepWhen,
@@ -620,6 +664,7 @@
       sliceCapital: SLICE_CAPITAL,
       airdropShare: AIRDROP_SHARE,
       tbillYear: TBILL_YEAR,
+      depositYieldYear: DEPOSIT_YIELD_YEAR,
       farmDays: FARM_DAYS,
     };
   }
@@ -635,7 +680,9 @@
     farmPlan: farmPlan, validate: validate, compareFitSets: compareFitSets, buildBoard: buildBoard,
     fmtMoney: fmtMoney, fmtSigned: fmtSigned,
     SLICE_CAPITAL: SLICE_CAPITAL, AIRDROP_SHARE: AIRDROP_SHARE,
-    TBILL_YEAR: TBILL_YEAR, FARM_DAYS: FARM_DAYS,
+    TBILL_YEAR: TBILL_YEAR, DEPOSIT_YIELD_YEAR: DEPOSIT_YIELD_YEAR,
+    BRIDGE_USD: BRIDGE_USD, MIDWAY_USD: MIDWAY_USD, CLAIM_USD: CLAIM_USD,
+    FARM_DAYS: FARM_DAYS,
   };
   if (typeof module !== "undefined" && module.exports) module.exports = api;
   root.RadarModel = api;
